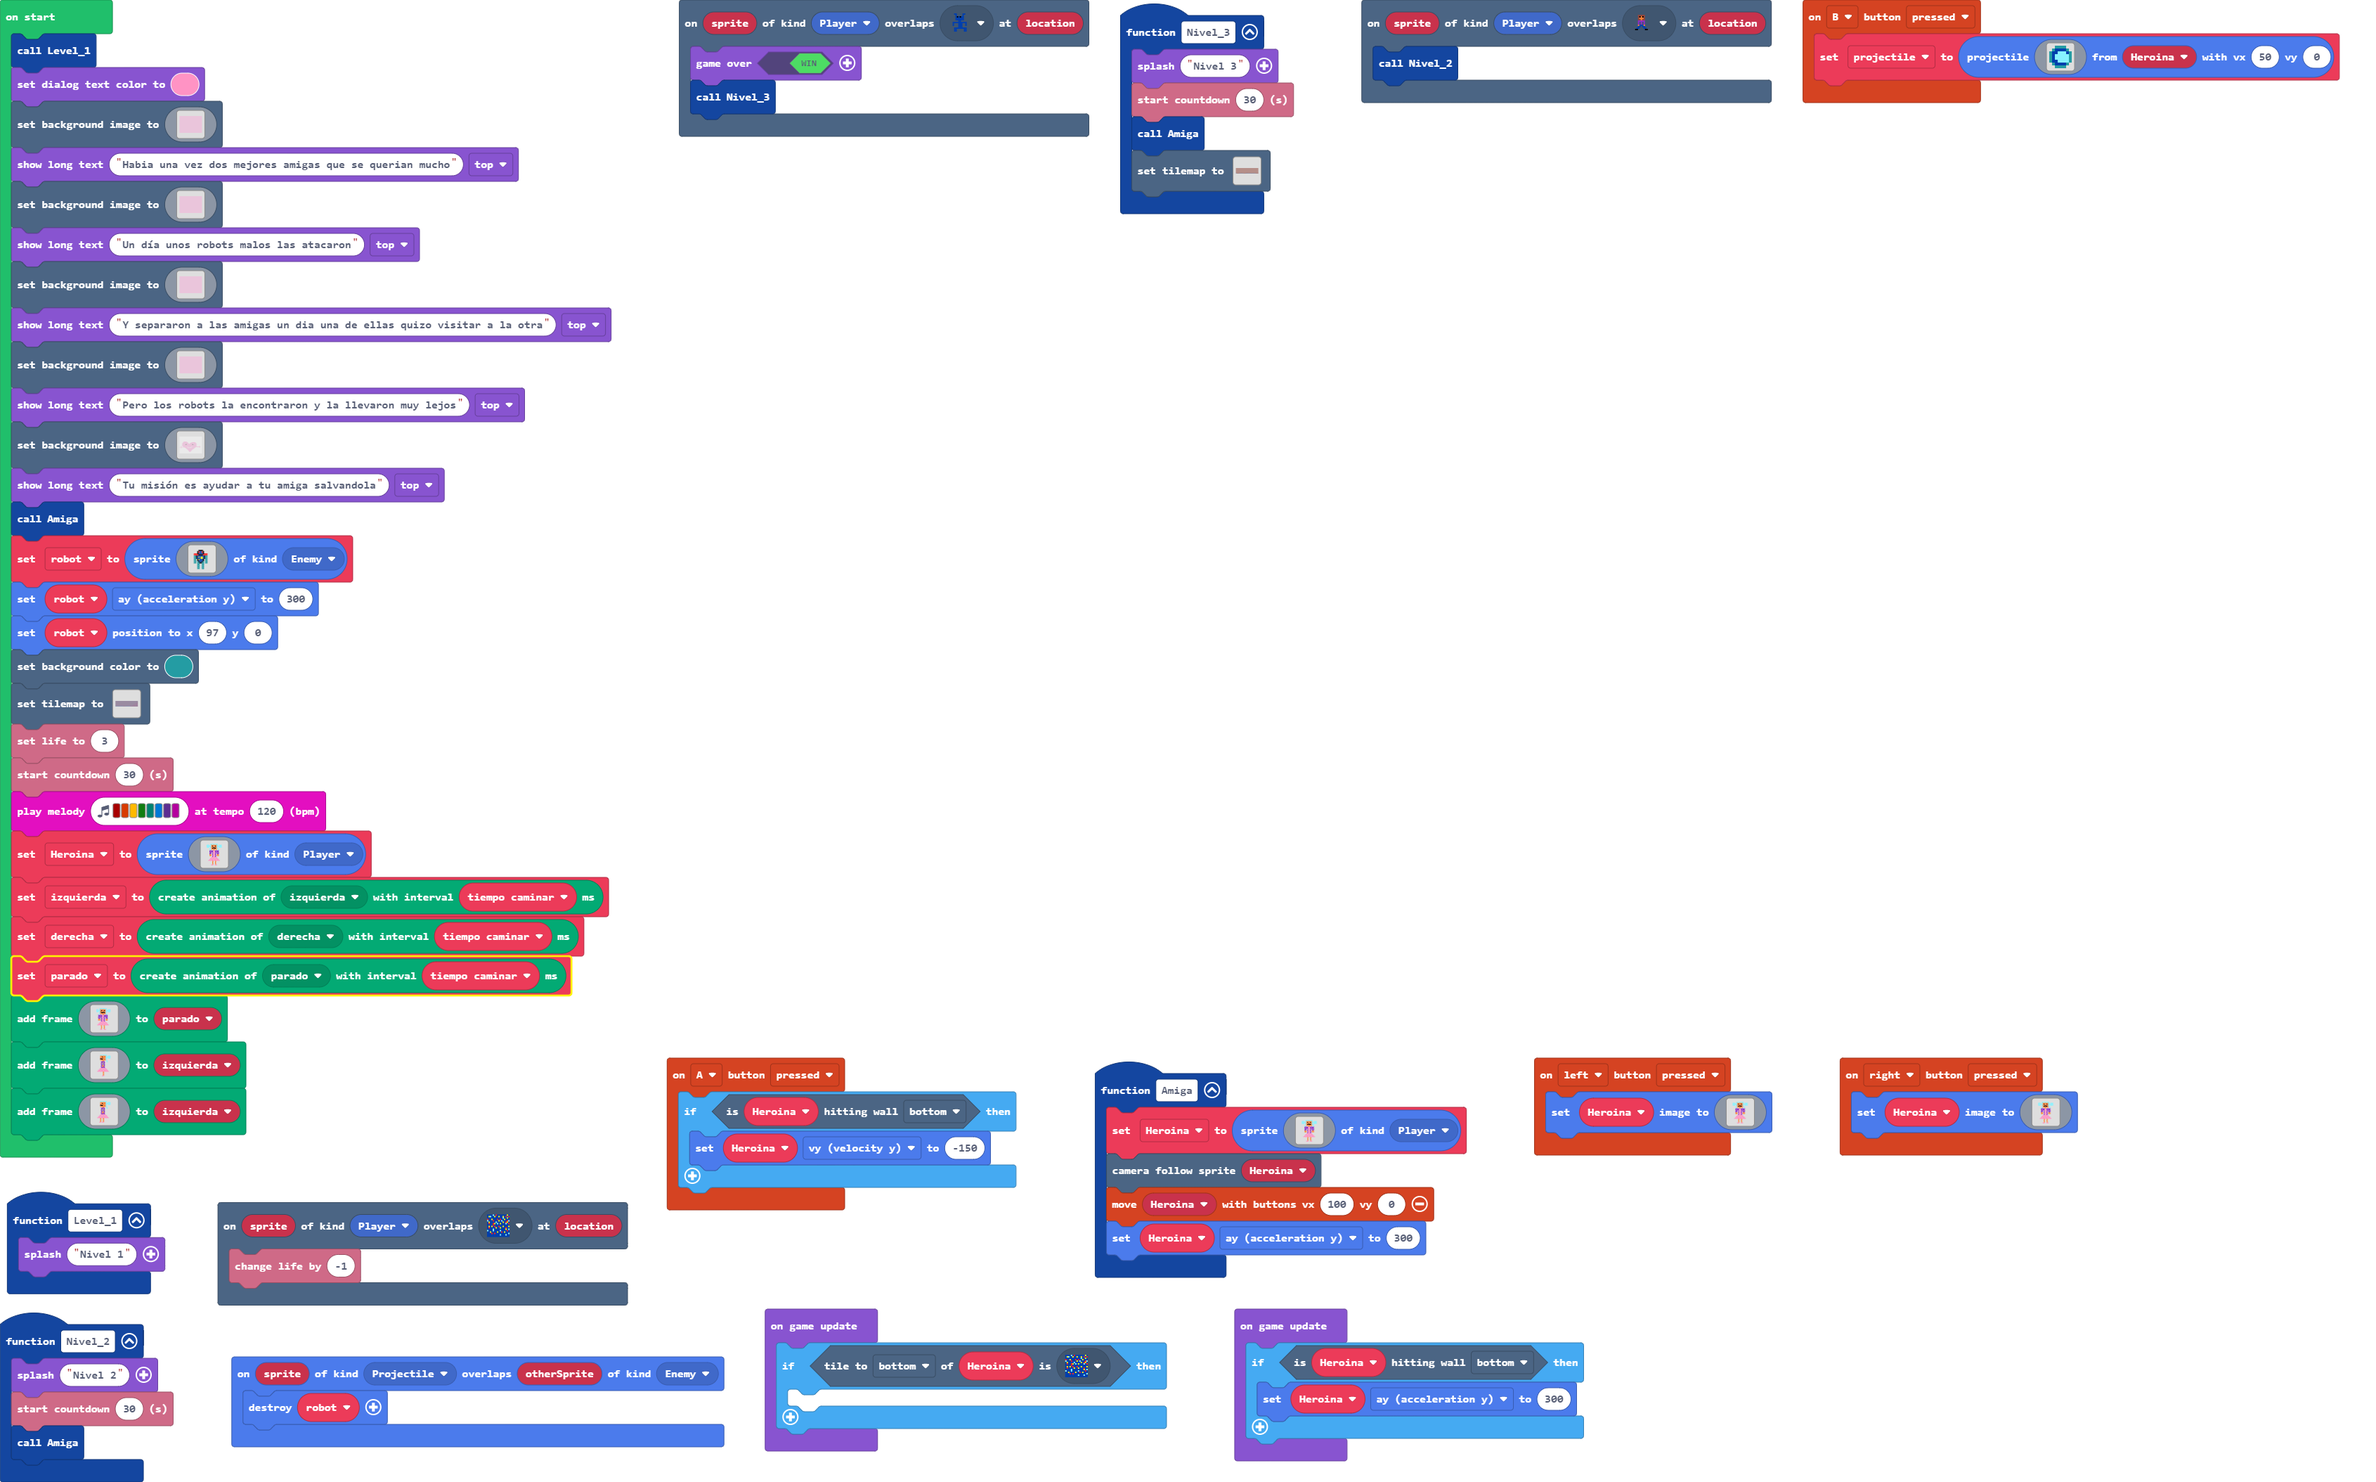
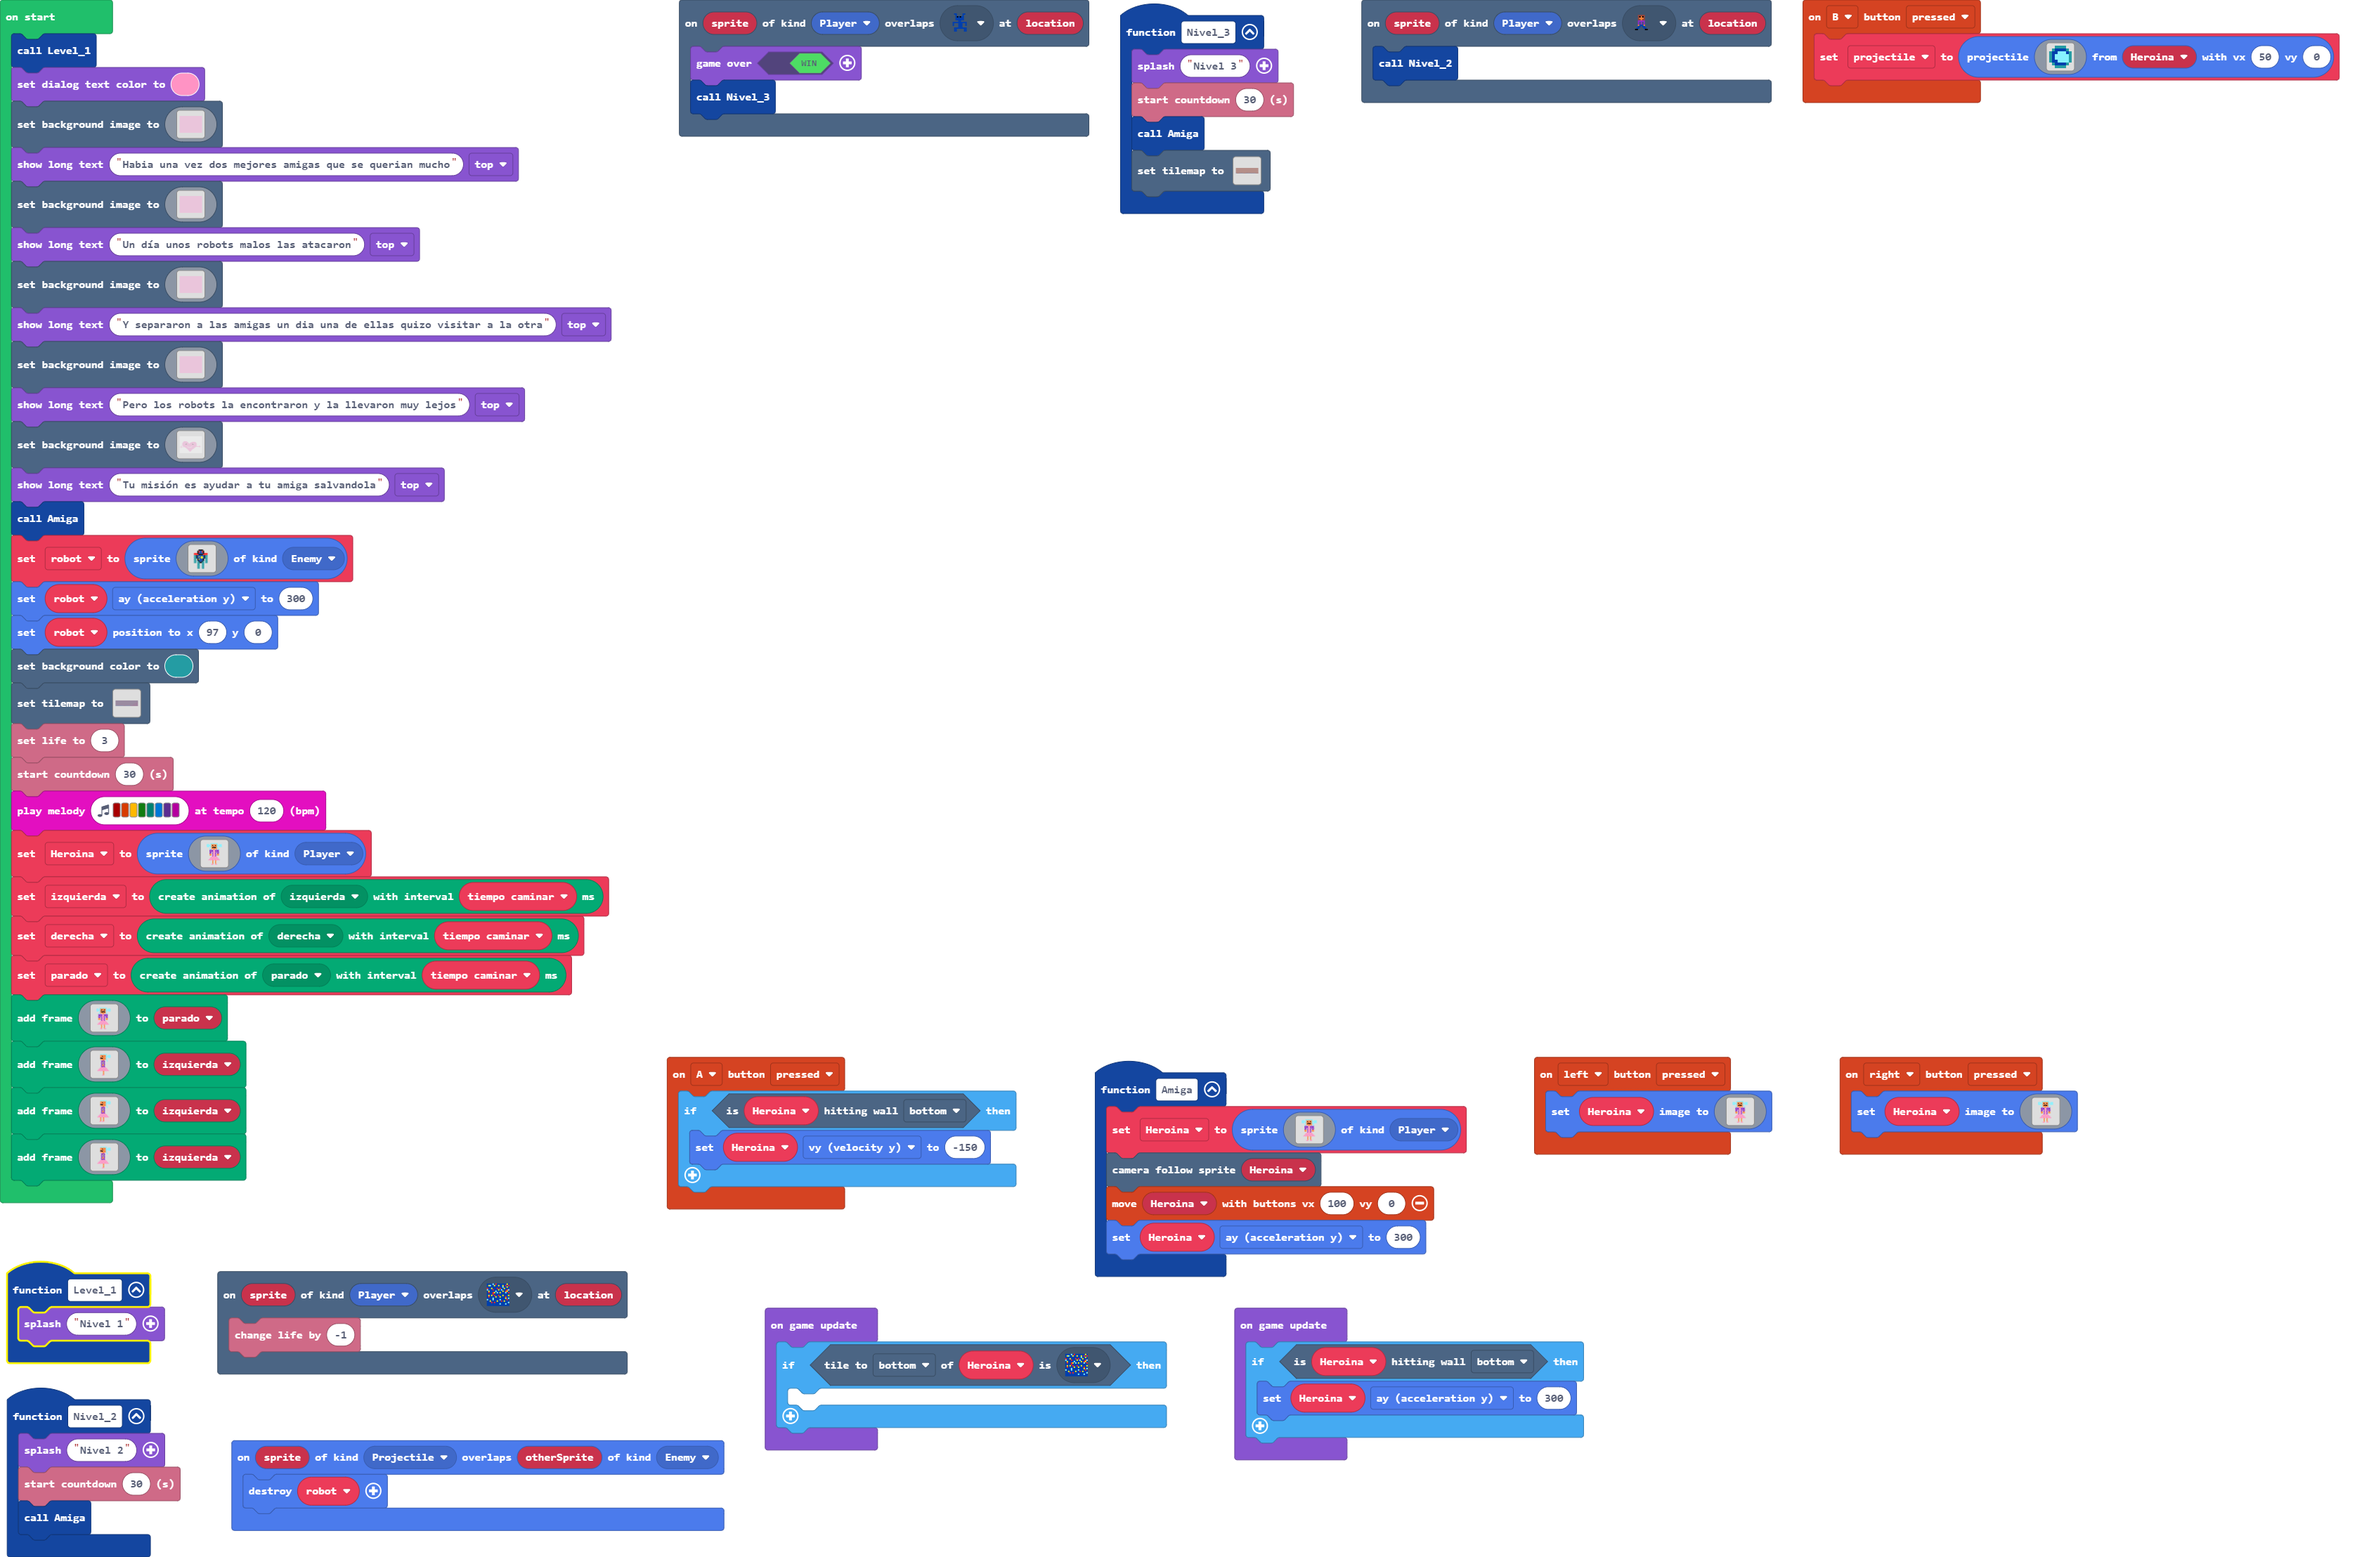
movi algo

diff --git a/main.ts b/main.ts
@@ -933,6 +933,32 @@ izquierda.addAnimationFrame(img`
     . . . . 4 . . 4 . . . . . . . . 
     . . . 3 3 . 3 3 . . . . . . . . 
     `)
+izquierda.addAnimationFrame(img`
+    . . . . . . . . . . . . . . . . 
+    . . . . 9 9 9 9 9 9 9 . . . . . 
+    . . . . 4 4 4 4 4 4 9 . 9 9 9 . 
+    . . . . 4 4 f 4 4 4 9 9 9 9 9 . 
+    . . . . 4 4 4 4 4 4 9 . 9 9 9 . 
+    . . . . f f f 4 4 4 9 . . . . . 
+    . . . . 4 4 4 4 4 4 9 . . . . . 
+    . . . . . . 4 4 . . . 9 . . . . 
+    . . . . . a a a a . . 9 . . . . 
+    . . . . . a b b a . . . . . . . 
+    . . . . . a b b a . . . . . . . 
+    . . . . . a b b a . . . . . . . 
+    . . . . . a 4 4 a . . . . . . . 
+    . . . . . a 4 4 a . . . . . . . 
+    . . . . . a a a a . . . . . . . 
+    . . . . 3 3 3 3 3 3 . . . . . . 
+    . . . 3 3 3 3 3 3 3 3 . . . . . 
+    . . 3 3 3 3 3 3 3 3 3 3 . . . . 
+    . 3 3 3 3 3 3 3 3 3 3 3 3 . . . 
+    . . . . . . . 4 . . . . . . . . 
+    . . . . . . . 4 . . . . . . . . 
+    . . . . . . . 4 . . . . . . . . 
+    . . . . . . . 4 . . . . . . . . 
+    . . . . . . 3 3 . . . . . . . . 
+    `)
 game.onUpdate(function () {
     if (Heroina.tileKindAt(TileDirection.Bottom, myTiles.tile4)) {
     	
